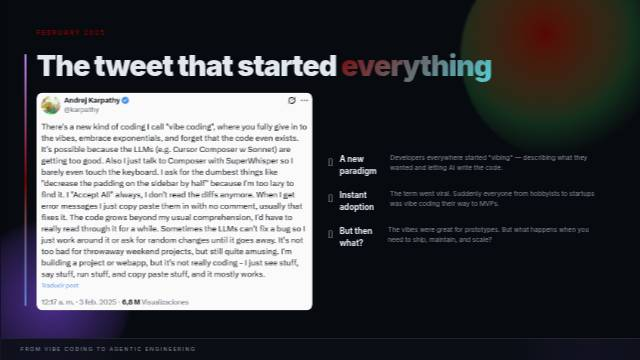
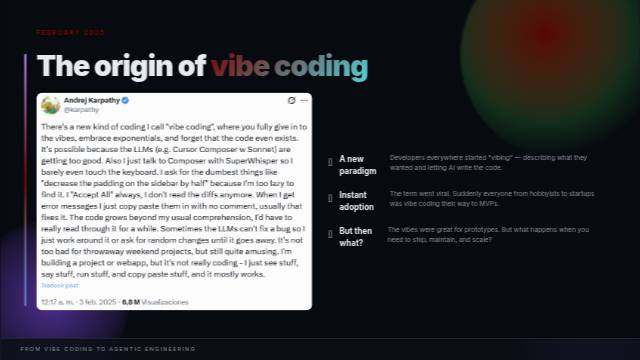
Auto-save from DECKIO — 2026-04-07T09:25

diff --git a/src/slides/CoverSlide.jsx b/src/slides/CoverSlide.jsx
@@ -23,14 +23,9 @@ export default function CoverSlide({ index, project }) {
           <div className={styles.meta}>
             <div className={styles.metaItem}>
               <span className={styles.metaValue}>Leandro Lopez</span>
-              <span className={styles.metaLabel}>Sr. Solution Engineering Lead</span>
+              <span className={styles.metaLabel}>Sr. Solution Engineering Lead @ Microsoft</span>
             </div>
           </div>
-        </div>
-
-        <div className={styles.watermark} aria-hidden="true">
-          <img src="/deckio.png" alt="" className={styles.watermarkIcon} />
-          <span className={styles.watermarkText}>DECKIO</span>
         </div>
       </div>
 

diff --git a/src/slides/DeckioSquadSlide.jsx b/src/slides/DeckioSquadSlide.jsx
@@ -15,7 +15,7 @@ export default function DeckioSquadSlide({ index, project }) {
             <div>
               <p className={styles.eyebrow}>In Practice</p>
               <h1>
-                The DeckIO <span className={styles.highlight}>Squad</span>
+                The DECKIO <span className={styles.highlight}>Squad</span>
               </h1>
               <p className={styles.subtitle}>A real team of 9 agents — each owning a module, guided by a Coach who watches the game and optimizes the roster.</p>
             </div>

diff --git a/src/slides/KarpathyOrigin.jsx b/src/slides/KarpathyOrigin.jsx
@@ -12,7 +12,7 @@ export default function KarpathyOrigin({ index, project }) {
       <div className={`${styles.body} content-frame content-gutter`}>
         <p className={styles.eyebrow}>February 2025</p>
         <h1>
-          The tweet that started <span className={styles.highlight}>everything</span>
+          The origin of <span className={styles.highlight}>vibe coding</span>
         </h1>
 
         <div className={styles.columns}>
